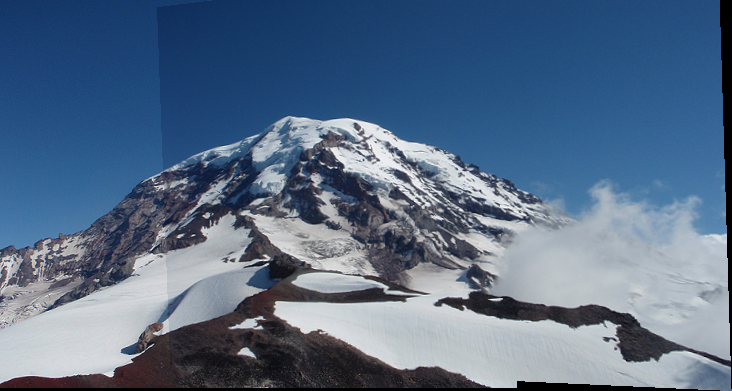
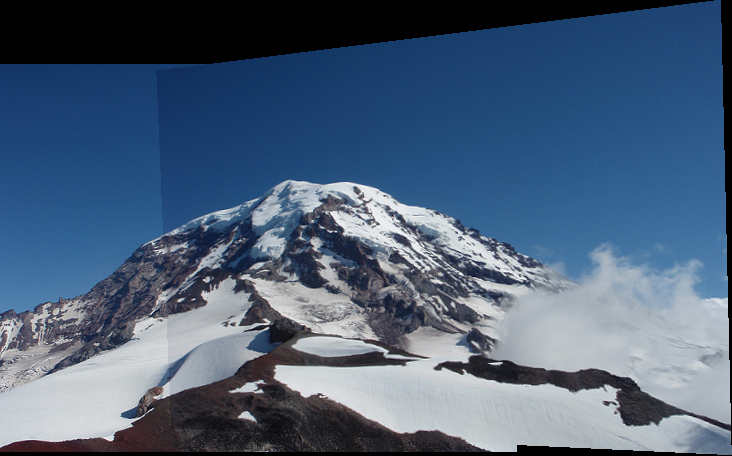
- Fixed bug where top part of stitched image is cut off - Added README

diff --git a/project.py b/project.py
@@ -115,8 +115,7 @@ def RANSAC(matches, kp1, kp2, numIterations, inlierThreshold, img1, img2):
     refined_H, _ = cv2.findHomography(img1_inlier_pts, img2_inlier_pts, 0)
     H_inv = np.linalg.inv(refined_H)
     matched_img = cv2.drawMatches(img1, kp1, img2, kp2, inliers, None, flags=cv2.DRAW_MATCHES_FLAGS_NOT_DRAW_SINGLE_POINTS)
-    cv2.imwrite(join(DIR_IMG, '3.png'), matched_img)
-    return (refined_H, H_inv)
+    return (refined_H, H_inv, matched_img)
 
 def get_inliers(H, matches, img1_pts, img2_pts, inlierThreshold):
     inliers = []
@@ -137,42 +136,41 @@ def get_inliers(H, matches, img1_pts, img2_pts, inlierThreshold):
 def stitch(img1, img2, H, H_inv):
     # Step 4
     # Compute size of stitched_img
-    # Projecting top left and bottom right corners of img2 give us all the info we need
+    # Projecting top right and bottom right corners of img2 give us all the info we need
     bottom_edge = img2.shape[0] - 1
     right_edge = img2.shape[1] - 1
     top_right_x, top_right_y = project(right_edge, 0, H_inv)
     bottom_right_x, bottom_right_y = project(right_edge, bottom_edge, H_inv)
     
     img1_height, img1_width = img1.shape[0], img1.shape[1]
+    top_height_diff = abs(top_right_y) if top_right_y < 0 else 0
     bottom_height_diff = bottom_right_y - img1_height if bottom_right_y > img1_height else 0
     width_diff = max(top_right_x, bottom_right_x) - img1_width
 
     # First, create blank image with new dimensions (assume 3 channels)
-    stitched_img_height = math.ceil(img1_height + bottom_height_diff)
+    stitched_img_height = math.ceil(img1_height + top_height_diff + bottom_height_diff)
     stitched_img_width = math.ceil(img1_width + width_diff)
     stitched_img = np.zeros((stitched_img_height, stitched_img_width, 3), np.uint8)
+    start_idx = math.floor(top_height_diff)
     # Then, dump the contents of img1 at the right place in stitched_img
     for row in range(img1_height):
         for col in range(img1_width):
-            stitched_img[row, col] = img1[row, col]
+            stitched_img[row + start_idx, col] = img1[row, col]
     # For every pixel in stitched_img, project onto img2
     for x in range(stitched_img_width):
-        for y in range(stitched_img_height):
+        for y in range(-start_idx, stitched_img_height):
             proj_x, proj_y = project(x, y, H)
             # If projection is within img2's boundaries, add/blend img2's pixel onto stitched_img
             if (0 <= proj_x <= right_edge) and (0 <= proj_y <= bottom_edge):
                 # Use bilinear interpolation to get img2's pixel
                 patch = cv2.getRectSubPix(img2, (1,1), (proj_x, proj_y))[0]
-                stitched_img[y, x] = patch
+                stitched_img[y + start_idx, x] = patch
     return stitched_img
 
 # =========================PART 1=========================
 # Most methods used for part 1 are built-in OpenCV methods
 # Much of the code using these methods are adapted from OpenCV documentation/tutorials
 # Get image gradients
-boxes_Ix = cv2.Sobel(boxes_gray, cv2.CV_32F, 1, 0, ksize=3)
-boxes_Iy = cv2.Sobel(boxes_gray, cv2.CV_32F, 0, 1, ksize=3)
-
 boxes_features = cv2.cornerHarris(boxes_gray, 3, 3, 0.04)
 boxes_features = get_local_max(boxes_features)
 boxes_kp = get_keypoints(boxes_features)
@@ -194,9 +192,10 @@ r2_out = get_out_img(r2_features)
 cv2.imwrite(join(DIR_IMG, '1c.png'), r2_out)
 
 sift = cv2.xfeatures2d.SIFT_create()
+bf = cv2.BFMatcher()
+
 _, r1_desc = sift.compute(r1, r1_kp)
 _, r2_desc = sift.compute(r2, r2_kp)
-bf = cv2.BFMatcher()
 # Returns 2 best matches, to apply ratio test
 matches = bf.knnMatch(r1_desc, r2_desc, 2)
 # Apply ratio test
@@ -216,10 +215,9 @@ cv2.imwrite(join(DIR_IMG, '2.png'), matched_img)
 # projections_test should be the same as the return value of project()
 # projections_test = cv2.perspectiveTransform(r1_pts_temp, H)
 
-H, H_inv = RANSAC(good, r1_kp, r2_kp, 200, 0.5, r1, r2)
+H, H_inv, matched_img = RANSAC(good, r1_kp, r2_kp, 200, 0.5, r1, r2)
+cv2.imwrite(join(DIR_IMG, '3.png'), matched_img)
+
 stitched_img = stitch(r1, r2, H, H_inv)
 cv2.imwrite(join(DIR_IMG, '4.png'), stitched_img)
 # =========================PART 2 END=========================
-
-# cv2.waitKey(0)
-# cv2.destroyAllWindows()
